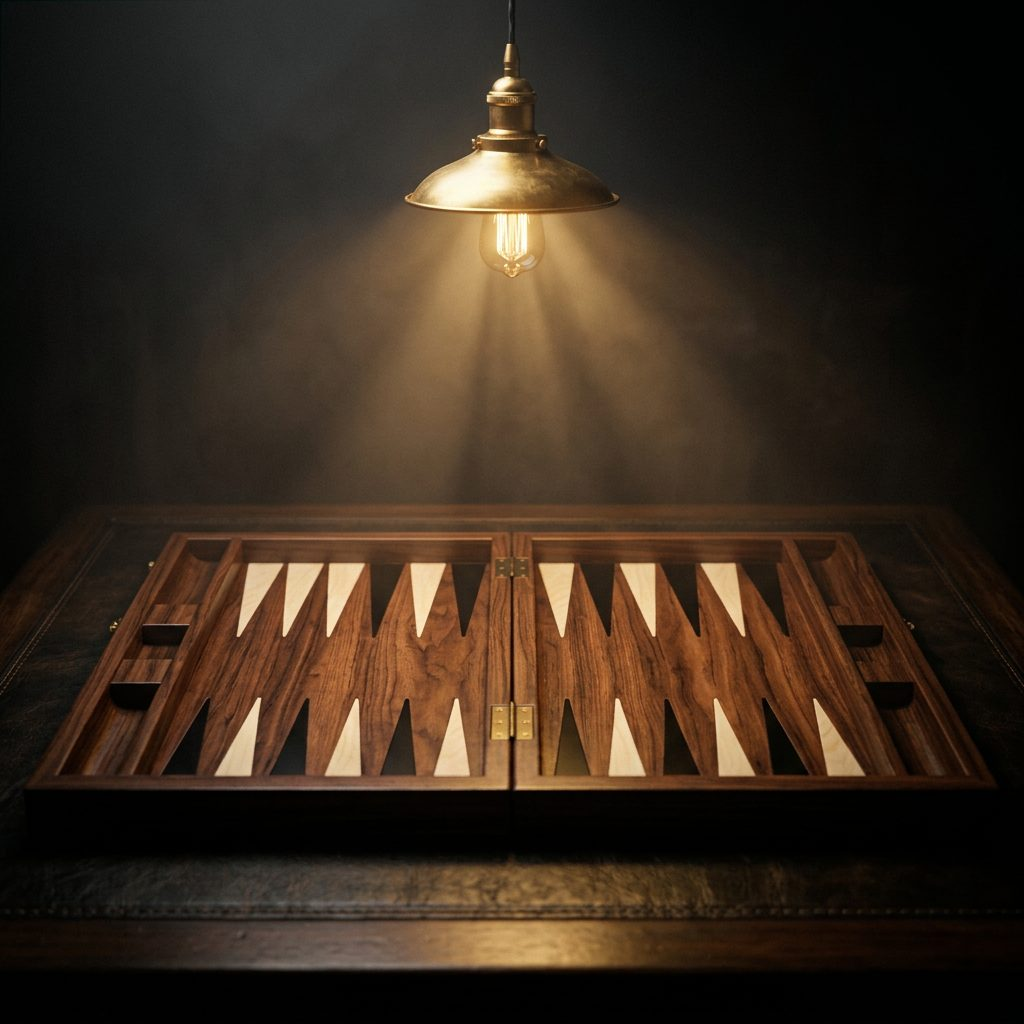
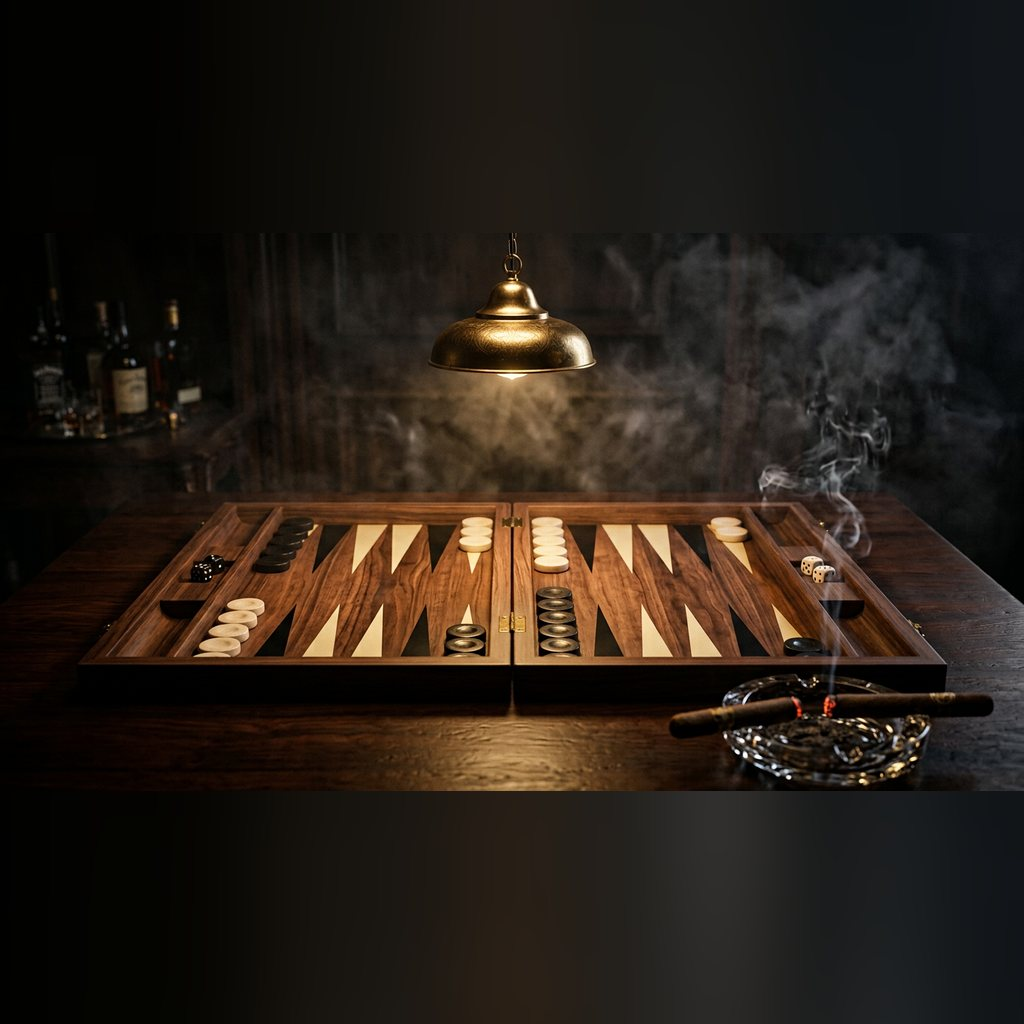
Replace register upper scene with set board, dice, and cigars
Service worker v52.

diff --git a/service-worker.js b/service-worker.js
@@ -2,7 +2,7 @@
    - صفحه و کدهای برنامه (html/js/css): اول شبکه (با timeout)، اگه نشد از کش.
      اینطوری نسخهی جدید با اولین رفرش دیده میشه.
    - فونت، آیکون و supabase.js: اول کش، پشتصحنه تازه میشن. */
-var VERSION = 'v51';
+var VERSION = 'v52';
 var CACHE = 'patogh-' + VERSION;
 var CORE = [
   './',

diff --git a/css/style.css b/css/style.css
@@ -3705,7 +3705,7 @@ html[data-theme="blackgold"] #register.page::before {
     linear-gradient(180deg, rgba(7, 7, 12, 0.12) 0%, rgba(7, 7, 12, 0.28) 58%, #07070c 100%),
     url("../img/register/tab-bg.jpg");
   background-size: cover;
-  background-position: center 12%;
+  background-position: center 38%;
   background-repeat: no-repeat;
   pointer-events: none;
   z-index: 0;
